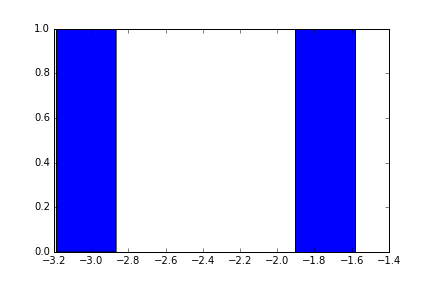
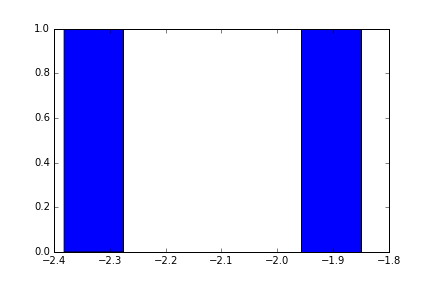
add trimming funciton, implement trimming in simulation

diff --git a/effect_programming/simulation.py b/effect_programming/simulation.py
@@ -9,11 +9,14 @@ import matplotlib.pyplot as plt
 from sklearn.linear_model import LogisticRegression
 from ichimura import ichimura
 from KS import KS
+from data_trim import data_trim
 
 sample_size=[100,200]
 trial=2
 beta_true=[1,-2]
 h=.1
+grid_start=-3
+grid_end=2
 
 beta_hat_ichimura={}
 beta_hat_log={}
@@ -28,11 +31,12 @@ for n in sample_size:
         e=np.random.randn(n, 1)
         x=np.concatenate((x1,x2),axis=1)
         y=(np.dot(x,beta_true)>1)*1
+        x,y=data_trim(x,y,h,grid_start,grid_end)
         log = LogisticRegression().fit(x,y)
         log_coef=log.coef_
         beta_hat_log[n][i]=log_coef[0,1]/log_coef[0,0]
-        beta_hat_ichimura[n][i]=ichimura(x,y,h)
-        beta_hat_KS[n][i]=KS(x,y,h)
+        beta_hat_ichimura[n][i]=ichimura(x,y,h,grid_start,grid_end)
+        beta_hat_KS[n][i]=KS(x,y,h,grid_start,grid_end)
     plt.figure()
     hist(beta_hat_log[n],bins=5)
     savefig('beta_hat_log_{}.png'.format(n))

diff --git a/effect_programming/data_trim.py b/effect_programming/data_trim.py
@@ -1,0 +1,32 @@
+# -*- coding: utf-8 -*-
+"""
+Created on Mon Mar  6 15:10:03 2017
+
+@author: lxy53
+"""
+
+import numpy as np
+
+def normal_kde(u,h):
+    res = (1/2)*(3-u**2)*((1/np.sqrt(2 *np.pi)) * np.exp(-0.5 * ((u/h)**2)))
+    return res
+    
+def data_trim(X,y,h,grid_start,grid_end):
+    grid=np.arange(grid_start, grid_end, 0.1)
+    for beta in grid:
+        beta_vec=[1,beta]
+        nrow=X.shape[0]
+        i=0
+        while i <= nrow-1:
+            u_temp = np.subtract(X,np.dot(np.ones((1,nrow)).T,X[[i]]))
+            u = np.dot(np.delete(u_temp,i,0),beta_vec)      
+            kde = normal_kde(u,h)
+            if np.sum(kde)<np.finfo(float).eps:
+                X=np.delete(X,i,0)
+                y=np.delete(y,i,0)
+                nrow = nrow-1
+                i=i
+            else:
+                i=i+1
+    return X,y
+    

diff --git a/effect_programming/KS.py b/effect_programming/KS.py
@@ -33,9 +33,9 @@ def log_likelihood(beta_hat,*params):
     L = np.dot(np.log(g_i),y) + np.dot(np.log(1-g_i),(1-y)) 
     return -L
     
-def KS(X,y,h):
+def KS(X,y,h,grid_start,grid_end):
     params=(X,y,h)
-    ranges=(slice(-2, 2, 0.1), slice(-2, 2, 0.1))
+    ranges=(slice(grid_start, grid_end, 0.1), slice(grid_start, grid_end, 0.1))
     opt_temp=optimize.brute(log_likelihood, ranges, params,finish=optimize.fmin)
     opt=opt_temp[1]/opt_temp[0]
     return opt

diff --git a/effect_programming/ichimura.py b/effect_programming/ichimura.py
@@ -34,9 +34,9 @@ def loss(beta_hat,*params):
     return loss_sqr
  
 #minimize loss function  
-def ichimura(X,y,h):
+def ichimura(X,y,h,grid_start, grid_end):
     params=(X,y,h)
-    ranges=(slice(-2, 2, 0.1), slice(-2, 2, 0.1))
+    ranges=(slice(grid_start, grid_end, 0.1), slice(grid_start, grid_end, 0.1))
     opt_temp=optimize.brute(loss, ranges, params,finish=optimize.fmin)
     opt=opt_temp[1]/opt_temp[0]
     return opt
